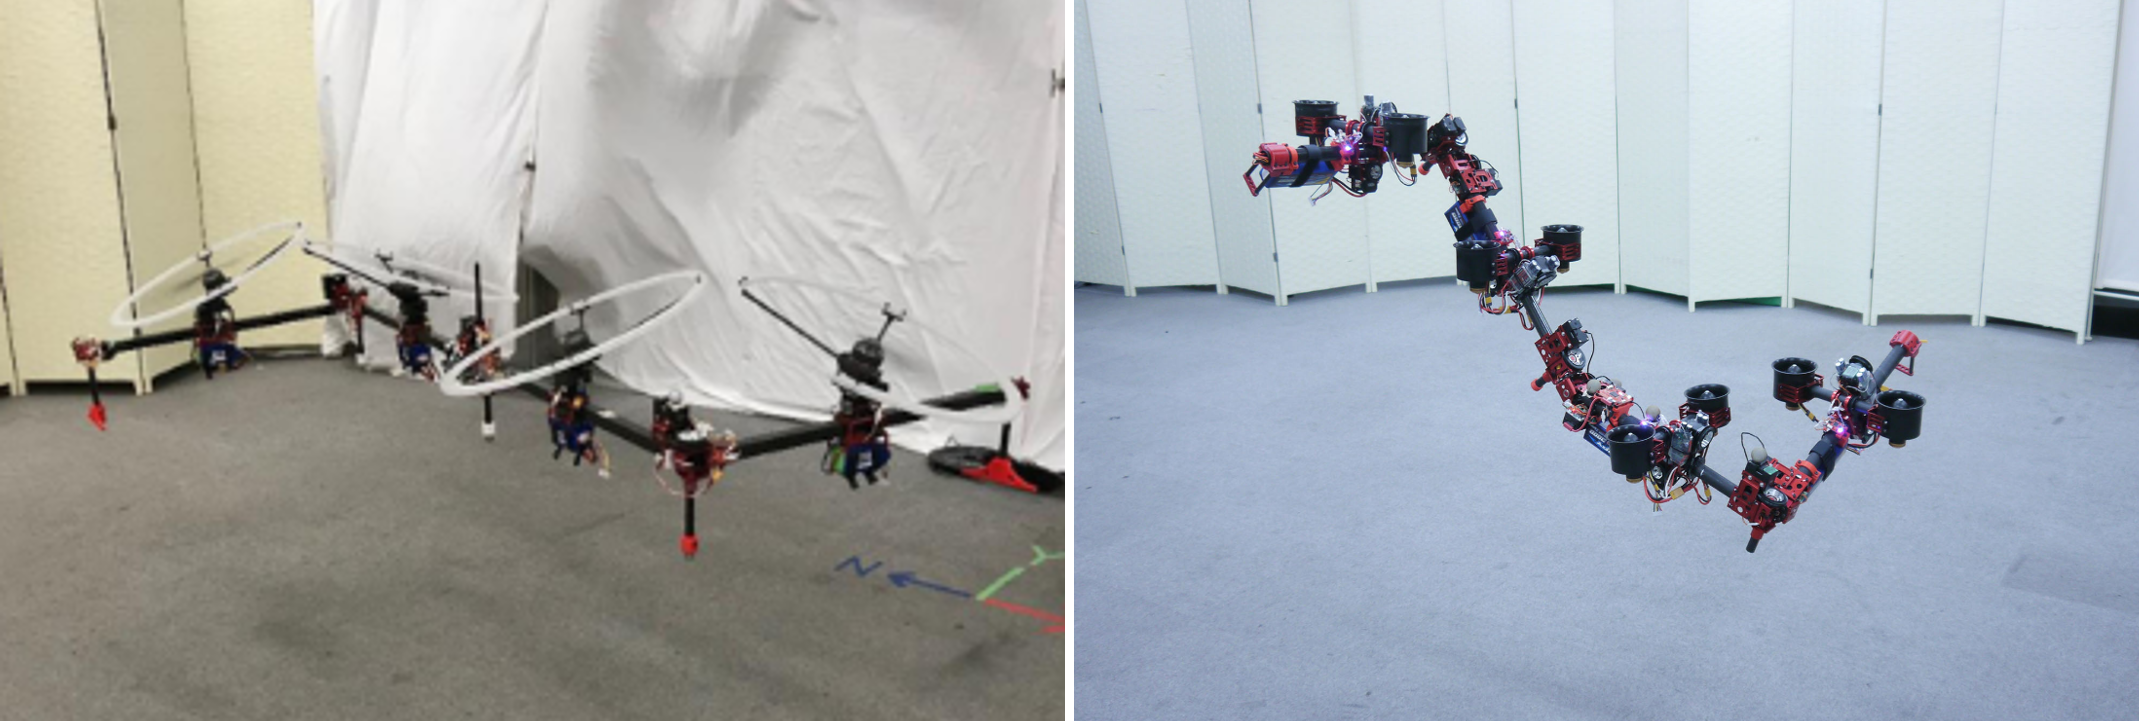
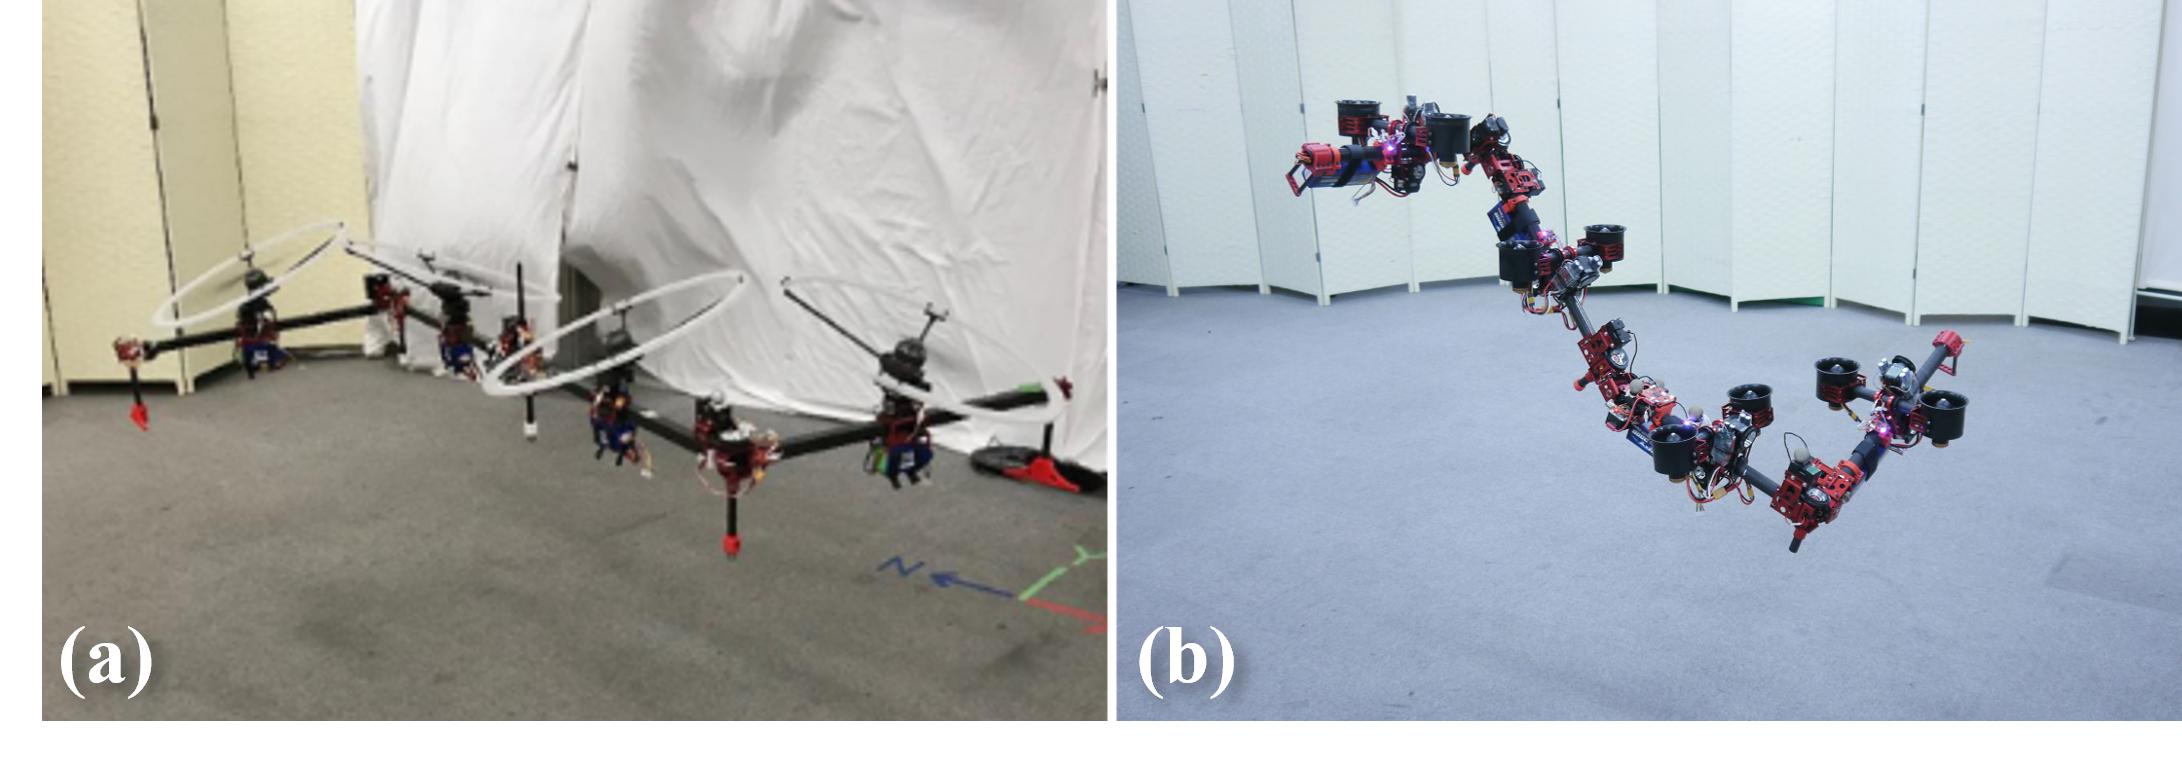
modification

diff --git a/1_introduction.tex b/1_introduction.tex
@@ -5,7 +5,7 @@
 \section{Research Background and Objective}
 Recently, aerial manipulation has attracted a lot of attention in the robotic research field \cite{ollero_2021_past}. Compared with conventional ground robot manipulation, aerial manipulation emphasizes that the manipulator could reach high places or enter narrow spaces, which the legged or wheeled robots have trouble reaching. Naturally, the tasks like aerial transportation, high-altitude contact and disaster relief can be executed. Current aerial manipulation platforms have achieved a variety of tasks.
 
-However, when facing a broader range of aerial manipulation tasks, both mechanical structures and control algorithms of current aerial manipulation platforms are insufficient. Here we introduce a representative interaction task named the contact-rich surface sliding task, in which an aerial robot is typically required to maintain a pressing contact between its end effector and an unknown uneven surface while following a desired sliding trajectory. Surface sliding tasks are commonly derived from scenarios like infrastructure surface inspection and cleaning \cite{bodie_2020_active, trujillo_2019_novel, tognon_2019_truly}, which means they are very common and significant task scenarios. Such tasks inherently involve a coupling between unmodeled surface geometry and frictional effects, leading to significant uncertainties in both the external wrench and the contact geometry experienced by the robot. Therefore, as the contact interaction situation varies during sliding, to complete the task requirement, both the force and position conditions need to be considered simultaneously. Consequently, the platform used for surface sliding tasks must exhibit both robustness and compliant behavior, enabling the end effector to remain resilient to force disturbances while adapting its relative configuration to changing contact conditions. To achieve these, we need to consider areas for improvement in both mechanical structures and control algorithms.
+However, when facing a broader range of aerial manipulation tasks, both mechanical structures and control algorithms of current aerial manipulation platforms are insufficient. Here we introduce a representative interaction task named the contact-rich surface sliding task, in which an aerial robot is typically required to maintain a pressing contact between its end effector and an unknown uneven surface while following a desired sliding trajectory. Surface sliding tasks are commonly derived from scenarios like infrastructure surface inspection and cleaning \cite{bodie_2020_active, trujillo_2019_novel, tognon_2019_truly}, which means they are very common and significant task scenarios. Such tasks inherently involve a coupling between unmodeled surface geometry and frictional effects, leading to significant uncertainties in both the external wrench and the contact geometry experienced by the robot. Therefore, as the contact interaction situation varies during sliding, to complete the task requirement, both the force and position conditions need to be considered simultaneously. Consequently, the platform used for surface sliding tasks must exhibit both robustness and compliant behavior, enabling the itself to remain resilient to force disturbances while adapting its relative configuration to changing contact conditions. To achieve these, we need to consider areas for improvement in both mechanical structures and control algorithms.
 
 % The aerial robot part is mainly used for locomotion and the manipulator part usually used for manipulation. Such principle of designing has two benefits. First it helps reducing the complexity of control logic since the locomotion and manipulation part are separated. Second, the manipulator part can be replaced according to the task requirements, which means all of morphologies can be realized on a same aerial robot by simply exchanging the manipulators.
 
@@ -15,7 +15,7 @@ We first consider potential improvements to the mechanical structure. Intuitivel
 \begin{figure}[t]
   \centering
   \includegraphics[width=\linewidth]{figures/chapter1/main_figure.png}
-  \caption{The multi-link aerial robots are tracking circular trajectories on a sloped board while maintaining contact. The desired trajectories are marked by white dashed lines. (a) 2D multi-link aerial robot Hydrus Xi. (b) 3D multi-link aerial robot DRAGON.}
+  \caption{The multi-link aerial robots are tracking circular trajectories on a inclined board while maintaining contact. The desired trajectories are marked by white dashed lines. (a) underactuated multi-link aerial robot Hydrus Xi. (b) overactuated multi-link aerial robot DRAGON.}
   \label{fig:main_figure}
 \end{figure}
 

diff --git a/4_admittance.tex b/4_admittance.tex
@@ -6,13 +6,9 @@ In this chapter, we will introduce the basic concept of admittance control, as w
 %%%%%%%%%%%%%%%%%%%%%%%%%%%%%%%%%%%%%%%%%%%%%%%%%%%%%%%%%%%%%%%%%%%%%%%%%%%%%%%%
 \section{General Admittance Control}
 
-Similar to impedance control, admittance control also regulates the system's response to external forces through a virtual dynamic relationship. However, impedance control generates a resisting force in response to displacement errors, whereas admittance control directly produces a compliant displacement in response to external forces. In this work, we employ admittance control to regulate the end effector position error by adjusting the joint angles in response to the external forces induced by surface geometric variations, thereby mitigating both the force and position disturbances experienced by the CoG through deformation.  
-
+Similar to impedance control, admittance control also regulates the system's response to external forces through a virtual dynamic relationship. However, impedance control generates a resisting force in response to displacement errors, whereas admittance control directly produces a compliant displacement in response to external forces. In this work, we employ admittance control to regulate end effector position relative to the platform body through structural deformation in response to the external forces generated by surface geometric variations, thereby mitigating both the force and position disturbances experienced by the CoG through structural deformation.
 
 In general, since position errors may occur in all translational directions, we consider admittance control along the $x$, $y$, and $z$ axes. The admittance dynamics can then be written as:
-
-
-% For the surface-sliding task considered, we define the $x$ axis of the world frame as the contact direction, while the $y$ and $z$ axes represent the sliding directions. Since both the environmental contact forces and geometric variations occur primarily along the contact direction, admittance control is applied only along this direction. The admittance dynamics along the $x$ axis can then be written as:
 \begin{equation}
 \label{eq:admittance control}
     \boldsymbol{M}_a(\boldsymbol{\ddot{r}}-\boldsymbol{\ddot{r}}_{ref})+\boldsymbol{C}_a(\boldsymbol{\dot{r}}-\boldsymbol{\dot{r}}_{ref})+\boldsymbol{K}_a(\boldsymbol{r}-\boldsymbol{r}_{ref})={\boldsymbol{\tilde{f}}_{ext}}-\boldsymbol{f}_{ref},
@@ -37,7 +33,7 @@ where $\Delta t$ is the control period.
 
 % Given the desired end effector pose, the corresponding angle $\theta$ that is defined in Fig.~\ref{fig:hybrid_controller} 
 
-Given the calculated distance, the desired end effector position can be derived, and the corresponding joint angles are then obtained by solving the inverse kinematics (IK). The detailed IK process depends on the definition of the distance $\boldsymbol{r}$ and the control variables, so it will be introduced in the experiment chapter.  As a result, deformation is achieved through joint motion, thereby changing the end effector position in response to the external force.
+Given the calculated distance, the desired end effector position can be derived, and the corresponding joint angles are then obtained by solving the inverse kinematics (IK). The detailed IK process depends on the definition of the distance $\boldsymbol{r}$ and the control variables, so it will be introduced in the experiment chapter.  As a result, deformation is achieved through joint motion, thereby changing the end effector posisiton relative to the platform body in response to the external force.
 
 
 % Usually, the geometry variation will introduce the external force change when the aerial robot is in contact with the surface. Therefore, with the internal admittance control, the multi-link aerial robot can exhibit deformation to adapt to the geometry variation, which is required in the surface sliding task.

diff --git a/5_hybrid.tex b/5_hybrid.tex
@@ -4,7 +4,7 @@
 In this chapter, we will introduce the hybrid impedance--admittance control framework for surface sliding tasks. Based on the impedance and admittance control methods introduced in the previous chapters, we will explain the motivation for combining these two control methods and how they are implemented on the multi-link aerial robots.
 
 
-% Finally, the integrated hybrid impedance--admittance control will be introduced and present in the experiments by using the 2D mutli-link aerial robot Hydrus and the 3D multi-link aerial robot DRAGON.
+% Finally, the integrated hybrid impedance--admittance control will be introduced and present in the experiments by using the underactuated mutli-link aerial robot Hydrus and the overactuated multi-link aerial robot DRAGON.
 % and show it can imitate the traditional cooperative aerial manipulation systems and help to solve the secondary requirements.
 
 %%%%%%%%%%%%%%%%%%%%%%%%%%%%%%%%%%%%%%%%%%%%%%%%%%%%%%%%%%%%%%%%%%%%%%%%%%%%%%%%
@@ -33,7 +33,7 @@ The motivation for this hybrid impedance--admittance control framework is to pro
 
 % The combination of impedance and admittance control is realized through different actuation sources of the multi-link aerial robot. The impedance controller mainly determines the desired wrench of the overall aerial robot, which is realized through the rotor thrusts. In contrast, the admittance controller generates the desired deformation according to the external force, which is realized through joint motion. Therefore, the two controllers can be simultaneously implemented on the same multi-link aerial robot without directly acting on the same control variable.
 
-From the implementation perspective, as illustrated in Fig.~\ref{fig:framework}, impedance control manages the overall state of the aerial robot, which is represented by the pose of its CoG, while admittance control regulates the end effector states through the adjustment of the joint angles. In the control formulation, the two controllers use different actuation sources and can therefore be considered separately. However, their execution order needs to be considered in the actual implementation. The joint motion generated by the admittance controller changes the configuration of the multi-link aerial robot, which further affects the thrust allocation. Therefore, the joint configuration is first updated through the admittance controller and inverse kinematics, and the updated configuration is then taken into account in the thrust computation.
+From the implementation perspective, as illustrated in Fig.~\ref{fig:framework}, impedance control manages the overall state of the aerial robot, which is represented by the pose of its CoG, while admittance control regulates the end effector position relative to the platform body through the adjustment of the joint angles. In the control formulation, the two controllers use different actuation sources and can therefore be considered separately. However, their execution order needs to be considered in the actual implementation. The joint motion generated by the admittance controller changes the configuration of the multi-link aerial robot, which further affects the thrust allocation. Therefore, the joint configuration is first updated through the admittance controller and inverse kinematics, and the updated configuration is then taken into account in the thrust computation.
 
 % \begin{figure}[h]
 %     \centering

diff --git a/2_preliminary.tex b/2_preliminary.tex
@@ -32,7 +32,7 @@ where $m$ is the total mass, $\boldsymbol{I}$ is the total inertia matrix expres
 \begin{figure}[t]
     \centering
     \includegraphics[trim={0cm 0cm 0cm 0cm}, clip, width=\linewidth]{figures/chapter2/multi-link.png}
-    \caption{Photographs of the multi-link aerial robots. Left: 2D multi-link aerial robot Hydrus Xi\cite{zhao_2021_singularity}. Right: 3D mutli-link aerial robot DRAGON\cite{zhao_2018_design}.}
+    \caption{Photographs of the multi-link aerial robots. (a): underactuated multi-link aerial robot Hydrus Xi\cite{zhao_2021_singularity}. (b): overactuated mutli-link aerial robot DRAGON\cite{zhao_2018_design}.}
     \label{fig:multi-link}
 \end{figure}
 
@@ -83,7 +83,7 @@ The underactuated multi-link aerial robot Hydrus Xi \cite{zhao_2021_singularity}
 \begin{figure}[t]
     \centering
     \includegraphics[trim={0cm 0cm 0cm 0cm}, clip, width=\linewidth]{figures/chapter2/hydrus_model.png}
-      \caption{Model of the 2D multi-link aerial robot Hydrus Xi. $\{L_i\}$ denotes the link frame, while $\{F_i\}$ denotes the thrust frame whose $z$ axis is aligned with the thrust direction. The tilt angle between $z$ axes of $\{L_i\}$ and $\{F_i\}$ is $\beta$, and the vectoring angle is $\psi_i$. }
+      \caption{Model of the underactuated multi-link aerial robot Hydrus Xi. $\{L_i\}$ denotes the link frame, while $\{F_i\}$ denotes the thrust frame whose $z$ axis is aligned with the thrust direction. The tilt angle between $z$ axes of $\{L_i\}$ and $\{F_i\}$ is $\beta$, and the vectoring angle is $\psi_i$. }
     \label{fig:hydrus_model}
 \end{figure}
 
@@ -134,7 +134,7 @@ The overactuated multi-link aerial robot DRAGON \cite{zhao_2018_design, zhao_202
 \begin{figure}[t]
     \centering
     \includegraphics[trim={0cm 0cm 0cm 0cm}, clip, width=\linewidth]{figures/chapter2/dragon_model.png}
-    \caption{Model of the 3D multi-link aerial robot DRAGON. (a) Kinematic model of DRAGON, with $\{L_i\}$ denoting the link frame. (b) Two-DoF joint module with orthogonal yaw and pitch axes ($q_{i\_yaw}$, $q_{i\_pitch}$). (c) Two-DoF thrust-vectoring apparatus with gimbal angles $\theta_i$ and $\phi_i$. $\{G_i\}$ denotes the intermediate frame (gimbal roll frame) after the $\phi_i$ rotation, while $\{F_i\}$ denotes the thrust frame whose $z$ axis is aligned with the thrust direction.}
+    \caption{Model of the overactuated multi-link aerial robot DRAGON. (a) Kinematic model of DRAGON, with $\{L_i\}$ denoting the link frame. (b) Two-DoF joint module with orthogonal yaw and pitch axes ($q_{i\_yaw}$, $q_{i\_pitch}$). (c) Two-DoF thrust-vectoring apparatus with gimbal angles $\theta_i$ and $\phi_i$. $\{G_i\}$ denotes the intermediate frame (gimbal roll frame) after the $\phi_i$ rotation, while $\{F_i\}$ denotes the thrust frame whose $z$ axis is aligned with the thrust direction.}
     \label{fig:dragon_model}
 \end{figure}
 
